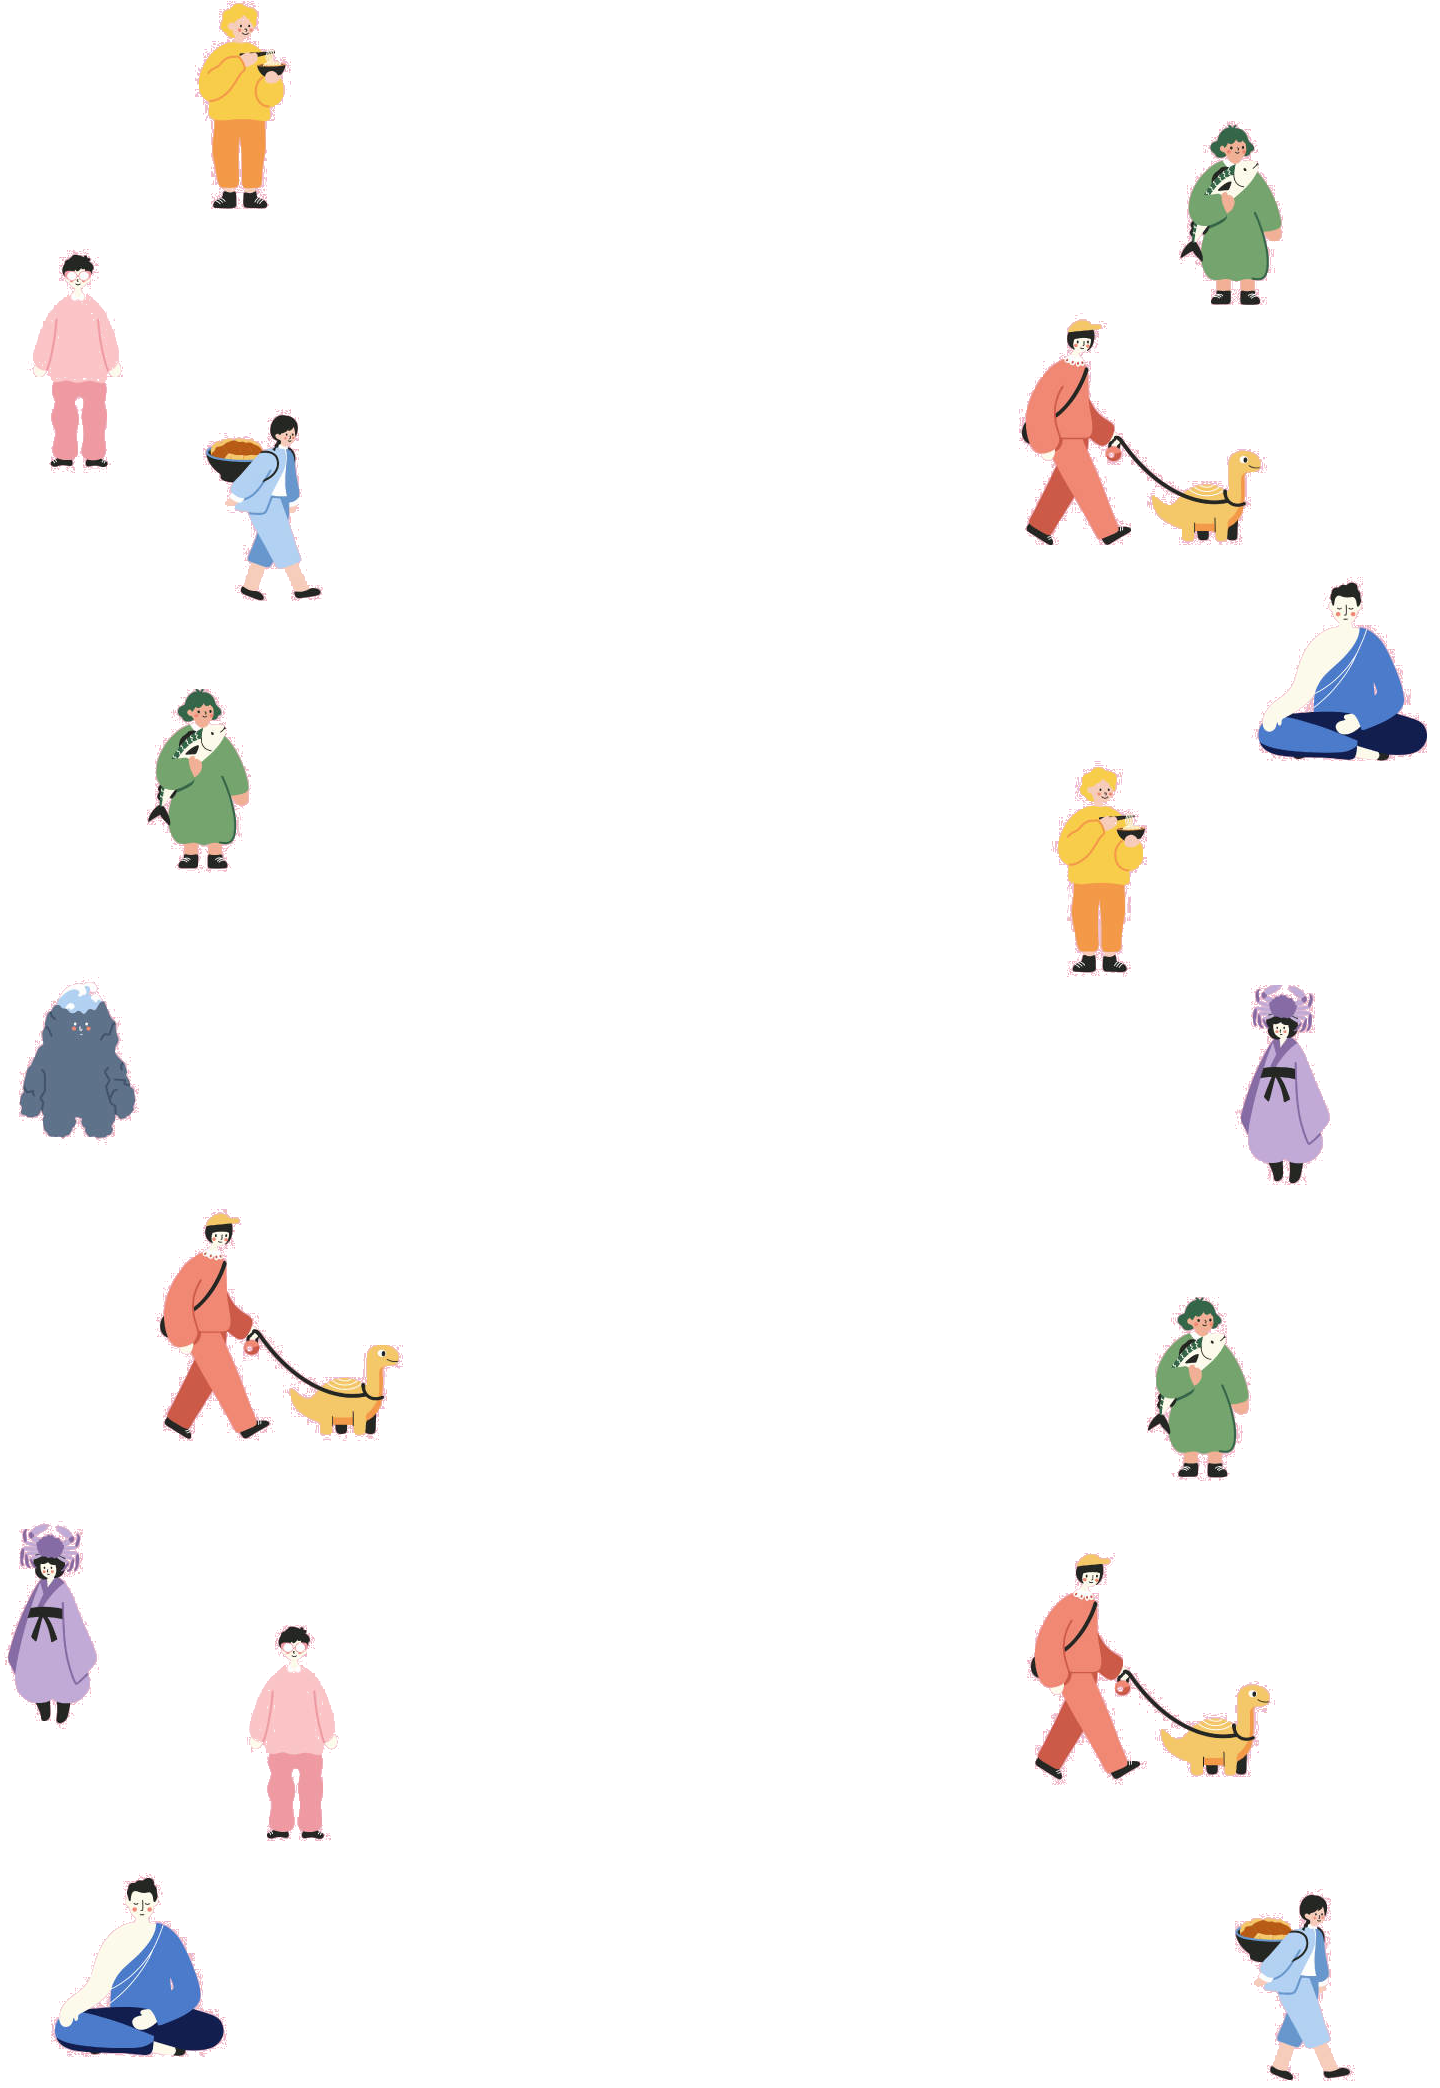
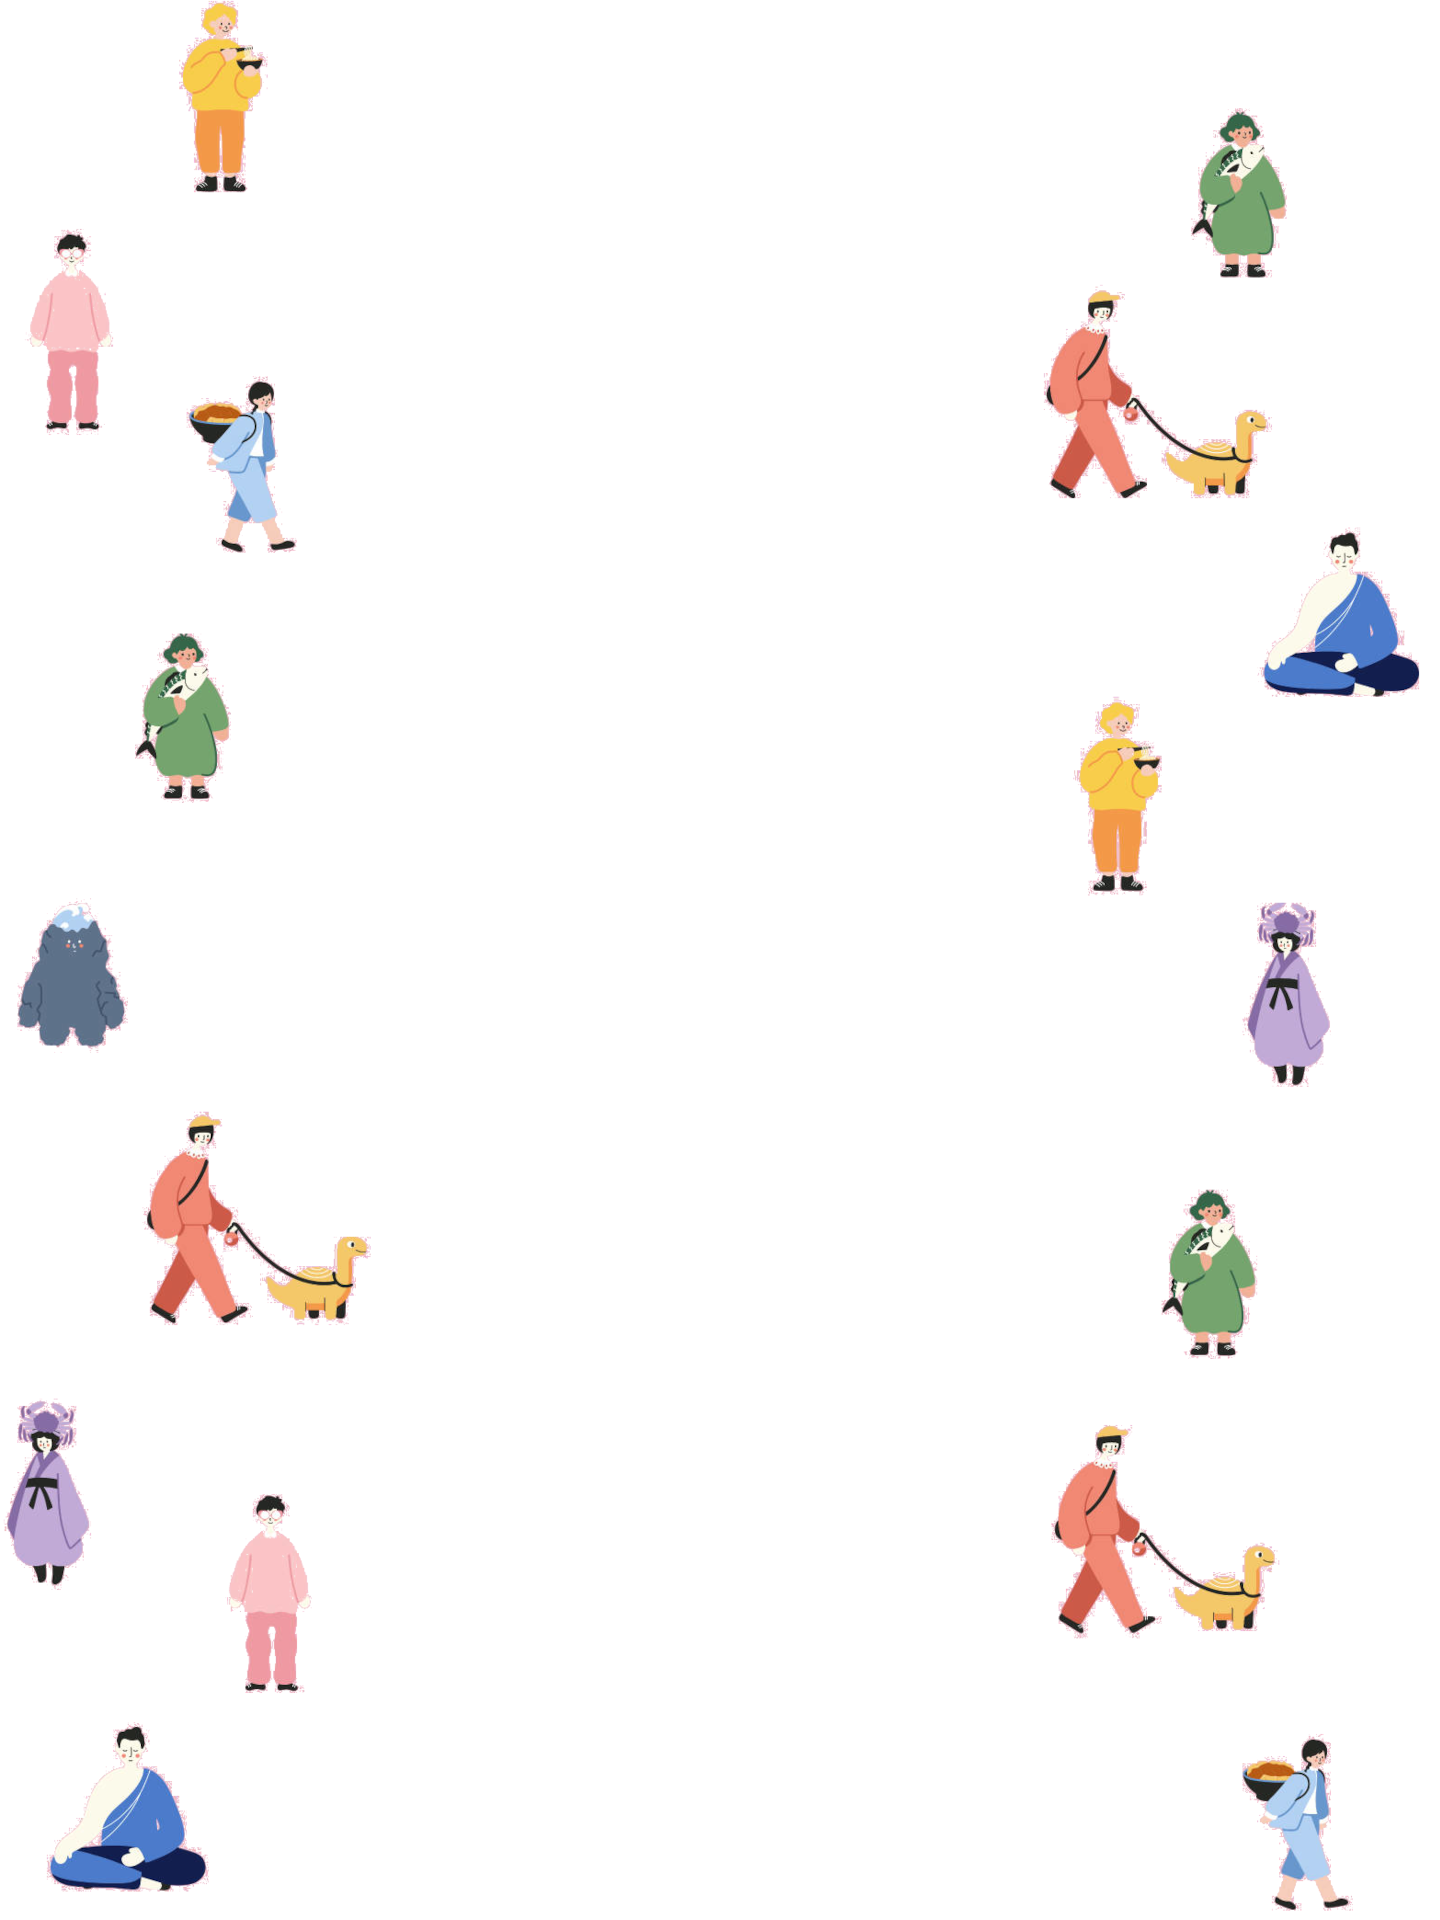
Modify the page background

diff --git a/style.css b/style.css
@@ -194,7 +194,7 @@ button, input, select, textarea {
  * Layout
  */
 .wrapper {
-  background: url("./assets/pageBg.png") repeat-y 50% 0%/85% scroll, var(--color--primary);
+  background: url("./assets/pageBg.png") repeat-y 50% 0%/100% scroll, var(--color--primary);
 }
 
 .container {

diff --git a/scss/_layout.scss b/scss/_layout.scss
@@ -3,7 +3,7 @@
  */
 
 .wrapper {
-  background: url("./assets/pageBg.png") repeat-y 50% 0% / 85% scroll, theme-color("primary"); // Temporary scale
+  background: url("./assets/pageBg.png") repeat-y 50% 0% / 100% scroll, theme-color("primary"); // Temporary scale
 }
 
 .container {
